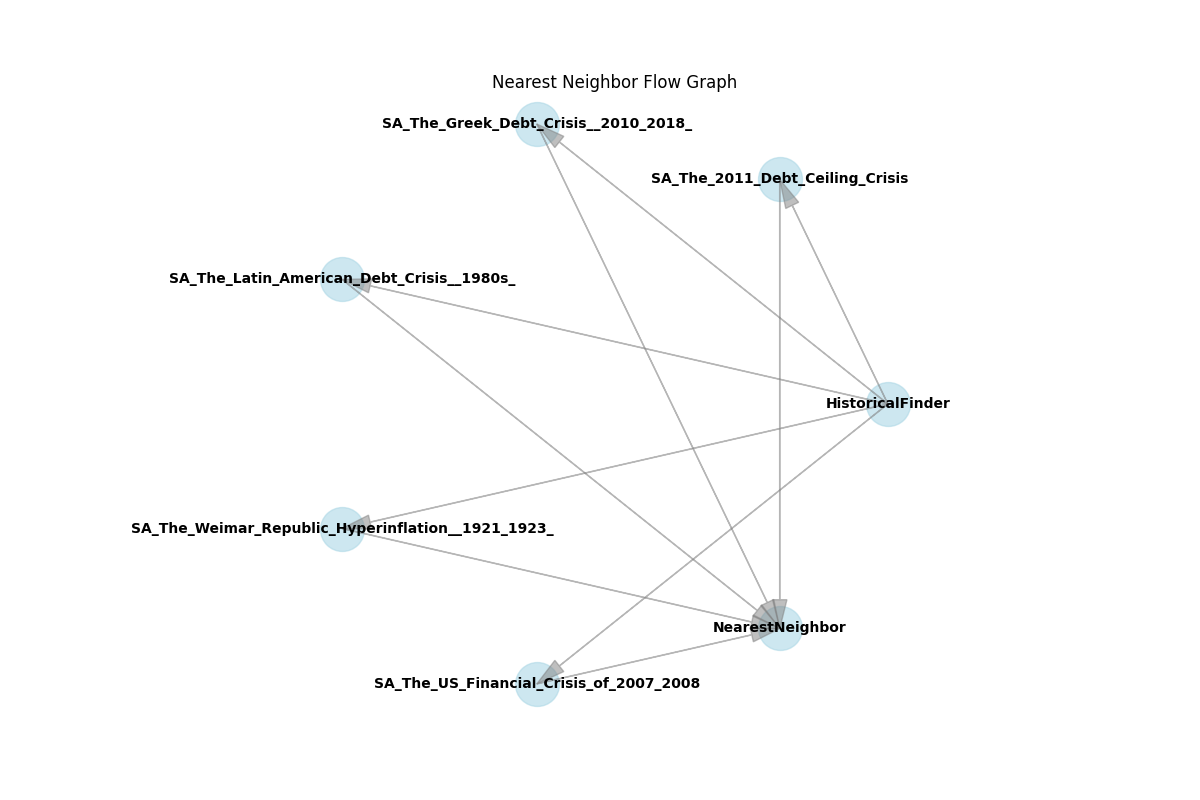
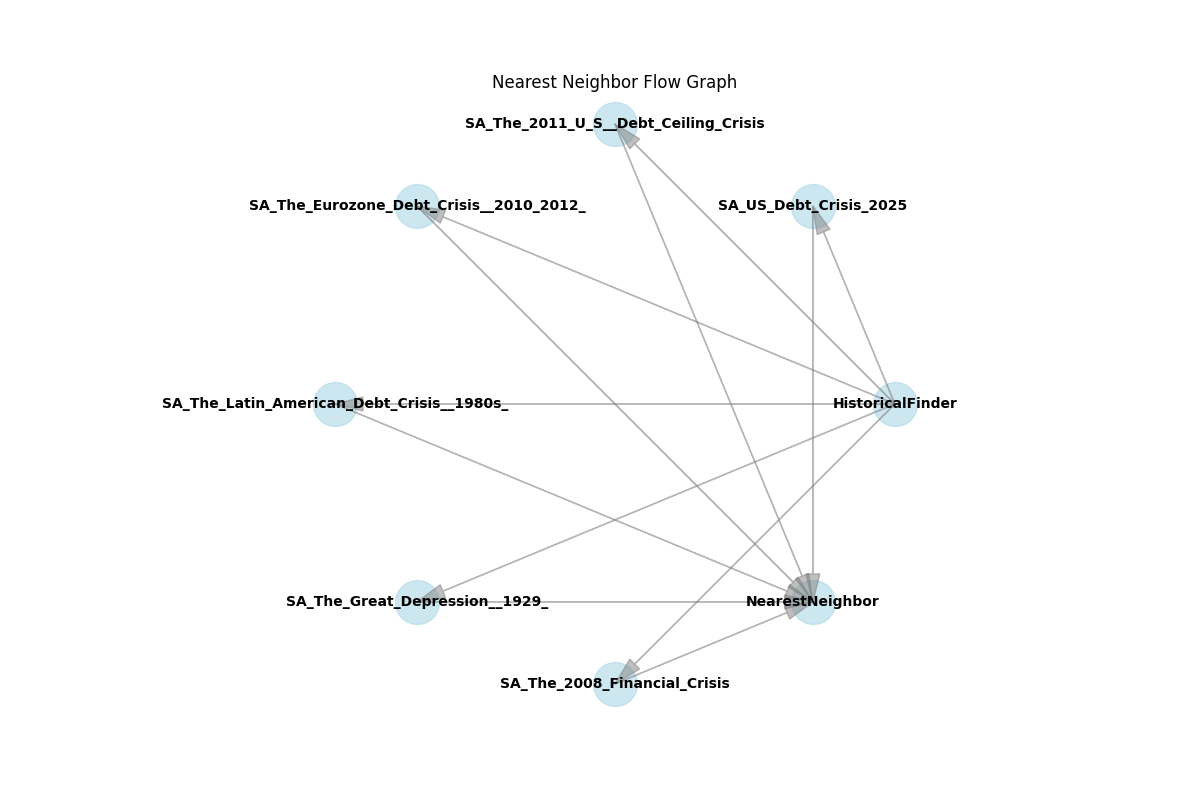
feat: feed historical example for current issue into prompt for examples

diff --git a/src/nearest_neighbour.py b/src/nearest_neighbour.py
@@ -48,6 +48,14 @@ class NearestNeighborFlow:
             
         self.model_client = OpenAIChatCompletionClient(model=model_name, api_key=api_key)
         
+        # New agent for current situation
+        self.current_situation_describer = AssistantAgent(
+            "CurrentSituationDescriber",
+            model_client=self.model_client,
+            system_message="""You are an expert at summarizing current events.\nFor the given prompt, write a brief historical-style note as if this is a historical event.\nProvide:\n1. Name of the event/situation (e.g., 'US Debt Crisis 2025')\n2. Brief description (2-3 sentences)""",
+            output_content_type=HistoricalExample
+        )
+
         # Initialize the historical finder
         self.historical_finder = AssistantAgent(
             "HistoricalFinder",
@@ -102,10 +110,19 @@ class NearestNeighborFlow:
         os.makedirs(output_dir, exist_ok=True)
         output_file = os.path.join(output_dir, "output.txt")
         flow_graph_file = os.path.join(output_dir, "flow_graph.png")
-        # First, get the historical examples
-        print("Sending prompt to historical_finder...")
-        examples_result = await self.historical_finder.on_messages(
+        # Step 1: Generate a HistoricalExample for the current prompt
+        current_example_result = await self.current_situation_describer.on_messages(
             messages=[TextMessage(source="user", content=prompt)],
+            cancellation_token=None
+        )
+        if hasattr(current_example_result, 'chat_message') and hasattr(current_example_result.chat_message, 'content'):
+            current_example = current_example_result.chat_message.content
+        else:
+            current_example = current_example_result
+        # Step 2: Get the historical examples as before
+        historical_finder_prompt = f"{current_example.name}: {current_example.description}"
+        examples_result = await self.historical_finder.on_messages(
+            messages=[TextMessage(source="user", content=historical_finder_prompt)],
             cancellation_token=None
         )
         print(f"examples_result type: {type(examples_result)}")
@@ -124,6 +141,8 @@ class NearestNeighborFlow:
             print("examples_data.examples is empty")
             raise ValueError("No historical examples found")
         print(f"Found {len(examples_data.examples)} historical examples")
+        # Step 3: Prepend the current example
+        examples_data.examples = [current_example] + examples_data.examples
         # Write historical examples to output file
         with open(output_file, "w", encoding="utf-8") as f:
             f.write(f"Prompt: {prompt}\n\n")
